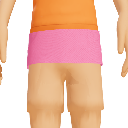
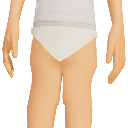
MiniMig 2: hvide trusser skåret på skrå, lårene i jævn form og samme farve som benet

diff --git a/bygogspil/index.html b/bygogspil/index.html
@@ -552,8 +552,9 @@ const PALETTES = { skin: ['#F6D0AE', '#EDB98A', '#D9965F', '#B5713F', '#8D5530',
   cloth: ['#E8384F', '#FF7A2F', '#FFC233', '#2FB872', '#13BFA6', '#3D8BFF', '#46699E', '#7A4DFF', '#FF6FB1', '#F4F1EA', '#3A3550'] };
 PALETTES.brows = PALETTES.hair;
 // (the nose, the mouth and Pynt have no colour of their own, as in the app: no sliders under them - nor the movements)
+var briefsOn = false; // (the briefs are always white: no colours under them)
 function showSwatches() { const move = /^(move|game)-/.test(partNow); if (!move) slidersFrom(picked[partNow] || START[partNow]);
-  const noColour = move || ['nose', 'mouth', 'pynt', 'name', 'ears', 'bg'].includes(partNow);
+  const noColour = move || ['nose', 'mouth', 'pynt', 'name', 'ears', 'bg'].includes(partNow) || partNow === 'pants' && briefsOn;
   document.getElementById('sliders').style.display = noColour ? 'none' : '';
   // (the fixed colours of the app over the sliders: skin, hair - the brows too - eyes, and the clothes' colours for the rest)
   const sw = document.getElementById('swatches'), list = noColour ? [] : PALETTES[partNow] || PALETTES.cloth; sw.hidden = !list.length; sw.innerHTML = '';
@@ -1294,7 +1295,7 @@ function redrawBody() {
     if (!c) { o[i] = s[i]; o[i + 1] = s[i + 1]; o[i + 2] = s[i + 2]; o[i + 3] = 255; continue; }
     const k = (.3 * s[i] + .59 * s[i + 1] + .11 * s[i + 2]) / tex.mid[tex.label[p]];
     o[i] = Math.min(255, c.r * 255 * k); o[i + 1] = Math.min(255, c.g * 255 * k); o[i + 2] = Math.min(255, c.b * 255 * k); o[i + 3] = 255; }
-  drawEyes(o); drawMouth(o); drawPynt(o); drawNose(o); drawBrows(o); tex.ctx.putImageData(out, 0, 0); tex.texture.needsUpdate = true; smoothUnder(); shapeNose(); mouthNormals(); bulgeLips(); }
+  matchThighs(o); drawEyes(o); drawMouth(o); drawPynt(o); drawNose(o); drawBrows(o); tex.ctx.putImageData(out, 0, 0); tex.texture.needsUpdate = true; smoothUnder(); thighLight(); shapeNose(); mouthNormals(); bulgeLips(); }
 // (the smile's crease lit smooth under a new mouth, as it was under the smile - after shapeNose, whose area reaches
 // down over the upper lip and put the crease's light back there)
 function mouthNormals() { const M = tex && tex.mouth, opts = (MOUTHS.find(m => m[0] === mouthNow) || [])[2]; if (!M || !M.verts || !hairBase) return;
@@ -1897,7 +1898,7 @@ const GARMENTS = {
     ['toej-haette', 'Hættetrøje', { made: true, sleeve: 1.06, length: .04, hood: true, pocket: true, cloth: 'smooth' }],
     ['toej-fodbold', 'Fodboldtrøje', { made: true, sleeve: .32, length: .01, tuck: true, trim: true, cloth: 'smooth' }]], texs: clothTexs },
   // (the folds lower than at first - the user - and the long trousers turned up a little too)
-  pants: { items: [['', 'Undershorts'], ['bukser-trusser', 'Trusser', { made: true, hem: .41, rise: .012, noBand: true }], ['bukser-lange', 'Lange bukser', { made: true, hem: .06, loose: .004, cuff: .014 }], ['bukser-shorts', 'Shorts', { made: true, hem: .3, cuff: .018 }],
+  pants: { items: [['', 'Undershorts'], ['bukser-trusser', 'Trusser', { made: true, hem: .41, brief: .07, rise: .012, noBand: true, white: true }], ['bukser-lange', 'Lange bukser', { made: true, hem: .06, loose: .004, cuff: .014 }], ['bukser-shorts', 'Shorts', { made: true, hem: .3, cuff: .018 }],
     ['bukser-cowboy', 'Cowboyshorts', { made: true, hem: .24, cuff: .02, cloth: 'denim' }], ['bukser-fodbold', 'Fodboldbukser', { made: true, hem: .295, loose: .004, loops: false, cloth: 'smooth' }]], texs: [], waist: true },
   dress: { items: [['', 'Ingen kjole'], ['kjole-sommer', 'Sommerkjole'], ['kjole-prinsesse', 'Prinsessekjole', { hang: .5, armsOut: 12 }], ['kjole-havfrue', 'Havfruekjole', { skirt: false, margin: .012, reach: 8, tail: true, snug: .2, waist: .15 }]], texs: [], skirt: true, noArms: true },
   // (socks made from the body too: low ones for sneakers, football socks with a stripe at the top, and knee socks)
@@ -1921,7 +1922,7 @@ async function setGarment(part, name) { const G = GARMENTS[part], ask = ++dressi
   if (name && part === 'dress') { if (!G.now) G.before = { shirt: GARMENTS.shirt.now, pants: GARMENTS.pants.now }; GARMENTS.shirt.now = GARMENTS.pants.now = ''; }
   if (!name && part === 'dress' && G.now && G.before) { GARMENTS.shirt.now = G.before.shirt; GARMENTS.pants.now = G.before.pants; }
   if (name && (part === 'shirt' || part === 'pants')) GARMENTS.dress.now = '';
-  G.now = name; renderStyles();
+  G.now = name; briefsOn = GARMENTS.pants.now === 'bukser-trusser'; if (part === 'pants') showSwatches(); else renderStyles();
   // (everything changed at once, when all of it is loaded - the underwear went skin coloured and the last dress stayed on
   // while a new one loaded; a choice made meanwhile wins)
   for (const [p, g] of Object.entries(GARMENTS)) if (g.now && !g.meshes[g.now]) { const n = g.now;
@@ -1939,7 +1940,59 @@ let underBriefs = null;
 function wearUnder() { const D = GARMENTS.dress, wide = !!D.shown && (D.items.find(i => i[0] === D.shown)?.[2]?.skirt ?? D.skirt);
   if (wide && !underBriefs) { const o = GARMENTS.pants.items.find(i => i[0] === 'bukser-trusser')[2]; underBriefs = makeCloth('bukser-trusser', 'pants', o);
     if (underBriefs) { underBriefs.material = new THREE.MeshStandardMaterial({ color: 0xF4F1EA, roughness: .85, side: THREE.DoubleSide }); underBriefs.name = 'under-dress'; } }
-  if (underBriefs) underBriefs.visible = wide; }
+  if (underBriefs) underBriefs.visible = wide; setSlim(wide || GARMENTS.pants.shown === 'bukser-trusser'); }
+// (the thighs in their own shape: the figure was made wearing its shorts, so down to their hem the thighs are that much
+// thicker, with a step at the hem - it shows only where nothing covers them: with the briefs, or looking up a wide skirt.
+// Then each thigh is drawn in to a smooth line from the top of the thigh to the leg as it is just under the hem - the
+// user, 04-11-2026 - and painted as that leg is. Fitted clothes keep the shape they were made on)
+const THIGH = { under: .02, bins: 36 };
+function slimThighs() { if (hairBase.slim) return hairBase.slim; const { pts, inv, H } = hairBase.whole, K = clothMarks(), geo = hairBase.body.geometry, P = geo.attributes.position, uv = geo.attributes.uv, bsi = geo.attributes.skinIndex, bsw = geo.attributes.skinWeight;
+  const armB = new Set(hairBase.body.skeleton.bones.flatMap((b, j) => /Arm|Hand/.test(b.name) ? [j] : [])), onArm = j => { let a = 0; for (let c = 0; c < 4; c++) if (armB.has(bsi.getComponent(j, c))) a += bsw.getComponent(j, c); return a > .2; };
+  const pixel = j => Math.min(tex.h - 1, Math.max(0, Math.floor((1 - uv.getY(j)) * tex.h))) * tex.w + Math.min(tex.w - 1, Math.max(0, Math.floor(uv.getX(j) * tex.w))), n = P.count, crotch = hairBase.hipY - .06 * H;
+  // (the hem: where the shorts' lowest corners are - the lowest twentieth left out, stray specks)
+  const ys = []; for (let j = 0; j < n; j++) if (tex.label[pixel(j)] === PARTS.pants && pts[j * 6 + 1] < crotch && !onArm(j)) ys.push(pts[j * 6 + 1]); ys.sort((a, b) => a - b); const hem = ys[Math.floor(ys.length * .05)], yRef = hem - THIGH.under * H;
+  const legs = { '-1': { x: 0, z: 0, c: 0, tx: 0, tz: 0, tc: 0, r: new Float32Array(THIGH.bins) }, 1: { x: 0, z: 0, c: 0, tx: 0, tz: 0, tc: 0, r: new Float32Array(THIGH.bins) } }, sideOf = x => x < K.mid ? -1 : 1;
+  for (let j = 0; j < n; j++) { const y = pts[j * 6 + 1]; if (onArm(j)) continue; const L = legs[sideOf(pts[j * 6])];
+    if (Math.abs(y - yRef) < .008 * H) { L.x += pts[j * 6]; L.z += pts[j * 6 + 2]; L.c++; } else if (y < crotch - .01 * H && y > crotch - .04 * H) { L.tx += pts[j * 6]; L.tz += pts[j * 6 + 2]; L.tc++; } }
+  for (const L of Object.values(legs)) { L.x /= L.c; L.z /= L.c; L.tx /= L.tc; L.tz /= L.tc; }
+  const binOf = (x, z, L) => Math.floor((Math.atan2(x, z) / (2 * Math.PI) + .5) * THIGH.bins) % THIGH.bins;
+  for (let j = 0; j < n; j++) { if (Math.abs(pts[j * 6 + 1] - yRef) >= .008 * H || onArm(j)) continue; const L = legs[sideOf(pts[j * 6])], dx = pts[j * 6] - L.x, dz = pts[j * 6 + 2] - L.z, b = binOf(dx, dz); L.r[b] = Math.max(L.r[b], Math.hypot(dx, dz)); }
+  // (and how far out the body comes at the top of the thigh, by the briefs' edge, all round: the thigh's outline runs in a
+  // straight smooth line from there down to the leg - held in to just under the crotch, the hips stood out over it in a
+  // sharp notch on the outside, seen from in front, the user said)
+  for (const L of Object.values(legs)) L.rt = new Float32Array(THIGH.bins);
+  for (let j = 0; j < n; j++) { const y = pts[j * 6 + 1]; if (y >= crotch || y <= crotch - .03 * H || onArm(j)) continue; const L = legs[sideOf(pts[j * 6])], dx = pts[j * 6] - L.tx, dz = pts[j * 6 + 2] - L.tz, b = binOf(dx, dz); L.rt[b] = Math.max(L.rt[b], Math.hypot(dx, dz)); }
+  const fill = r => { const s = r.map((v, b) => (v || Math.max(r[(b + 1) % r.length], r[(b + r.length - 1) % r.length]))); return s.map((_, b) => (s[(b + 1) % s.length] + s[b] * 2 + s[(b + s.length - 1) % s.length]) / 4); };
+  for (const L of Object.values(legs)) { L.r = fill(L.r); L.rt = fill(L.rt); }
+  const slim = P.array.slice(), w = new THREE.Vector3(), legPix = new Set(), thighPix = new Set();
+  for (let j = 0; j < n; j++) { const x = pts[j * 6], y = pts[j * 6 + 1], z = pts[j * 6 + 2]; if (onArm(j)) continue;
+    if (y < hem - .05 * H && y > hem - .09 * H && tex.label[pixel(j)] === PARTS.skin) legPix.add(pixel(j));
+    if (y <= yRef - .002 * H || y >= crotch) continue; if (tex.label[pixel(j)] === PARTS.pants || tex.seam[pixel(j)] === PARTS.pants) thighPix.add(pixel(j));
+    const L = legs[sideOf(x)], t = (y - yRef) / (crotch - yRef), cx = L.x + (L.tx - L.x) * t, cz = L.z + (L.tz - L.z) * t, dx = x - cx, dz = z - cz, now = Math.hypot(dx, dz); if (now < 1e-5) continue;
+    const a = (Math.atan2(dx, dz) / (2 * Math.PI) + .5) * THIGH.bins, b0 = Math.floor(a) % THIGH.bins, u = a - Math.floor(a), at = r => r[b0] * (1 - u) + r[(b0 + 1) % THIGH.bins] * u, R = at(L.r) + (at(L.rt) - at(L.r)) * t;
+    // (only ever in)
+    const to = Math.min(now, R); w.set(cx + dx / now * to, y, cz + dz / now * to).applyMatrix4(inv); slim[j * 3] = w.x; slim[j * 3 + 1] = w.y; slim[j * 3 + 2] = w.z; }
+  // (the shadow of the shorts painted on the leg under their hem, a dark ragged band: every little square of the picture
+  // from just above the hem to a little under it, drawn triangle by triangle - with how much of the leg's colour it
+  // gets, all at the hem, fading out downwards)
+  const band = new Map(), lo = hem - .05 * H, hi = crotch, cy = [0, 0, 0], cu = [0, 0, 0], cv = [0, 0, 0];
+  for (let t = 0; t + 2 < n; t += 3) { let inside = false; for (let c = 0; c < 3; c++) { const j = t + c; cy[c] = pts[j * 6 + 1]; cu[c] = uv.getX(j) * tex.w; cv[c] = (1 - uv.getY(j)) * tex.h; if (cy[c] > lo && cy[c] < hi) inside = true; } if (!inside || onArm(t)) continue;
+    const x0 = Math.floor(Math.min(...cu)), x1 = Math.ceil(Math.max(...cu)), y0 = Math.floor(Math.min(...cv)), y1 = Math.ceil(Math.max(...cv)), d = (cv[1] - cv[2]) * (cu[0] - cu[2]) + (cu[2] - cu[1]) * (cv[0] - cv[2]); if (!d || x1 - x0 > 60 || y1 - y0 > 60) continue;
+    for (let py = y0; py <= y1; py++) for (let px = x0; px <= x1; px++) { const a = ((cv[1] - cv[2]) * (px + .5 - cu[2]) + (cu[2] - cu[1]) * (py + .5 - cv[2])) / d, b = ((cv[2] - cv[0]) * (px + .5 - cu[2]) + (cu[0] - cu[2]) * (py + .5 - cv[2])) / d, e = 1 - a - b; if (a < -.25 || b < -.25 || e < -.25 || px < 0 || py < 0 || px >= tex.w || py >= tex.h) continue;
+      const k = Math.min(1, Math.max(0, ((a * cy[0] + b * cy[1] + e * cy[2]) - lo) / (.03 * H))), p = py * tex.w + px; band.set(p, Math.max(band.get(p) || 0, k * k * (3 - 2 * k))); } }
+  // (and the light: the way each point faces still came from the step at the hem, a dark ragged band across the leg - from
+  // just under it up to the crotch it faces straight out from the leg, fading into its own at both ends)
+  const N = geo.attributes.normal, turn = [], from = yRef - .05 * H, q = new THREE.Vector3(); for (let j = 0; j < n; j++) { const x = pts[j * 6], y = pts[j * 6 + 1], z = pts[j * 6 + 2]; if (y <= from || y >= crotch || onArm(j)) continue;
+    const L = legs[sideOf(x)], t = Math.max(0, (y - yRef) / (crotch - yRef)), dx = x - (L.x + (L.tx - L.x) * t), dz = z - (L.z + (L.tz - L.z) * t), l = Math.hypot(dx, dz); if (l < 1e-5) continue; q.set(dx / l, 0, dz / l).transformDirection(inv);
+    turn.push({ j, x: q.x, y: q.y, z: q.z, k: Math.min(1, (y - from) / (.03 * H), (crotch - y) / (.03 * H)), was: [N.getX(j), N.getY(j), N.getZ(j)] }); }
+  return hairBase.slim = { orig: P.array.slice(), slim, on: false, legPix: [...legPix], thighPix: [...thighPix], band, turn }; }
+function thighLight(off) { const S = hairBase?.slim; if (!S || !S.on && !off) return; const N = hairBase.body.geometry.attributes.normal, a = N.array;
+  for (const t of S.turn) { let x = t.was[0], y = t.was[1], z = t.was[2]; if (!off) { x += (t.x - x) * t.k; y += (t.y - y) * t.k; z += (t.z - z) * t.k; const l = Math.hypot(x, y, z) || 1; x /= l; y /= l; z /= l; } a[t.j * 3] = x; a[t.j * 3 + 1] = y; a[t.j * 3 + 2] = z; } N.needsUpdate = true; }
+function setSlim(on) { if (!hairBase || !tex || (!on && !hairBase.slim)) return; const S = slimThighs(); if (S.on === on) return; S.on = on; hairBase.body.geometry.attributes.position.array.set(on ? S.slim : S.orig); hairBase.body.geometry.attributes.position.needsUpdate = true; if (!on) thighLight(true); redrawBody(); }
+// (the thighs' paint made the same as the leg just under them, colour for colour)
+function matchThighs(o) { const S = hairBase?.slim; if (!S?.on || !tex.covered[PARTS.pants]) return; const mean = l => { const m = [0, 0, 0]; for (const p of l) for (let c = 0; c < 3; c++) m[c] += o[p * 4 + c]; return m.map(v => v / Math.max(1, l.length)); }, A = mean(S.legPix), B = mean(S.thighPix), f = A.map((v, c) => v / Math.max(1, B[c]));
+  for (let p = 0; p < tex.w * tex.h; p++) if (tex.label[p] === PARTS.pants || tex.seam[p] === PARTS.pants) for (let c = 0; c < 3; c++) o[p * 4 + c] = Math.min(255, o[p * 4 + c] * f[c]);
+  for (const [p, k] of S.band) for (let c = 0; c < 3; c++) o[p * 4 + c] += (A[c] - o[p * 4 + c]) * k; }
 // (a top over trousers: its lower part let out over them, wherever they come further out - drawn up by the navel the
 // trousers came out through the T-shirt's hem. Each time from the top's own shape, kept in orig)
 function layer() { const top = GARMENTS.shirt.meshes[GARMENTS.shirt.shown], under = GARMENTS.pants.meshes[GARMENTS.pants.shown]; if (!top) return;
@@ -2047,7 +2100,9 @@ function makeCloth(name, part, opts) {
   // in the contrast colour that far below the top, [from, to])
   if (socks) { const top = opts.top * H; edges = [{ f: p => p[1] - top, bare: .008 * H }]; out = () => (opts.out || .0035) * H; }
   else if (pants) { const hem = opts.hem * H;
-    edges = [{ f: p => hem - p[1], fold: (opts.cuff || 0) * H, bare: .012 * H }, { f: p => p[1] - top, bare: .003 * H }];
+    // (briefs: the leg openings on the slant, from the crotch up over the hips)
+    const hemAt = opts.brief ? p => crotch - .004 * H + clamp(side(p) / (.1 * H)) * opts.brief * H : () => hem;
+    edges = [{ f: p => hemAt(p) - p[1], fold: (opts.cuff || 0) * H, bare: .012 * H }, { f: p => p[1] - top, bare: .003 * H }];
     // (loose: the legs that much further out all the way down, from just under the crotch - long trousers sat like tights)
     out = p => { const s = clamp((crotch - p[1]) / (crotch - hem)); return (.006 + (opts.flare || 0) * s * s + (opts.loose || 0) * clamp((crotch - p[1]) / (.06 * H))) * H; }; }
   // (tucked: a top's bottom inside the trousers - as long as a T-shirt, so with underpants only no tummy shows)
@@ -2179,6 +2234,8 @@ function makeCloth(name, part, opts) {
   if (socks) { cloth.userData.sock = opts; paintSocks(cloth); if (opts.heel) { cloth.material.roughness = .28; cloth.material.metalness = .05; } }
   // (the body under it hidden, all but near its edges)
   const covered = new Uint8Array(pts.length / 6); for (let j = 0; j < covered.length; j++) covered[j] = !((pants || socks) && armPt[j]) && edges.every(e => e.f(P3(j)) < -e.bare) ? 1 : 0;
+  // (white: always white, like the vest and the undershorts - the briefs)
+  if (opts.white) cloth.material = new THREE.MeshStandardMaterial({ color: 0xF2EFE8, roughness: .85, metalness: 0, side: THREE.DoubleSide });
   cloth.userData.covered = covered; cloth.userData.made = true; cloth.userData.tucked = T; return cloth; }
 async function loadCloth(name, part) {
   const G = GARMENTS[part], file = G.items.find(it => it[0] === name)?.[2]?.file || name; // (file: made from another one's files)

diff --git a/precache-manifest.js b/precache-manifest.js
@@ -1,2 +1,2 @@
-self.MINIMIG_VERSION = '4113E50AD60021D7';
+self.MINIMIG_VERSION = '9CE542C737669201';
 self.MINIMIG_FILES = ["billeder/figur.png","billeder/ikon-180.png","billeder/ikon-192.png","billeder/ikon-512.png","billeder/spil-dans.jpg","billeder/spil-gemmeleg.jpg","billeder/spil-hav.jpg","billeder/spil-hop.jpg","billeder/spil-skate.jpg","billeder/spil-straffe.jpg","bygogspil/baggrund/dansesal.jpg","bygogspil/baggrund/fodboldbane.jpg","bygogspil/baggrund/gymnastiksal.jpg","bygogspil/baggrund/havbund.jpg","bygogspil/baggrund/have.jpg","bygogspil/baggrund/ridderborg.jpg","bygogspil/baggrund/rummet.jpg","bygogspil/baggrund/skov.jpg","bygogspil/baggrund/slikland.jpg","bygogspil/baggrund/slot.jpg","bygogspil/baggrund/strand.jpg","bygogspil/baggrund/vinter.jpg","bygogspil/figur.fbx","bygogspil/figur-farve.jpg","bygogspil/figur-staa.json","bygogspil/haar-kort.jpg","bygogspil/haar-kort.json","bygogspil/ikoner/baggrund.png","bygogspil/ikoner/briller.png","bygogspil/ikoner/bryn.png","bygogspil/ikoner/bukser.png","bygogspil/ikoner/hat.png","bygogspil/ikoner/hud.png","bygogspil/ikoner/haar.png","bygogspil/ikoner/kinder.png","bygogspil/ikoner/kjoler.png","bygogspil/ikoner/mund.png","bygogspil/ikoner/naese.png","bygogspil/ikoner/navn.png","bygogspil/ikoner/ny-dreng.jpg","bygogspil/ikoner/ny-pige.jpg","bygogspil/ikoner/oejne.png","bygogspil/ikoner/oerer.png","bygogspil/ikoner/sko.png","bygogspil/ikoner/spil-gemmeleg.png","bygogspil/ikoner/spil-hav.png","bygogspil/ikoner/spil-hop.png","bygogspil/ikoner/spil-hop-bag.png","bygogspil/ikoner/spil-hop-for.png","bygogspil/ikoner/spil-oe.png","bygogspil/ikoner/spil-skate.png","bygogspil/ikoner/spil-straffe.png","bygogspil/ikoner/stilling-dans.png","bygogspil/ikoner/stilling-drej.png","bygogspil/ikoner/stilling-hop.png","bygogspil/ikoner/stilling-jubel.png","bygogspil/ikoner/stilling-kolboette.png","bygogspil/ikoner/stilling-loeb.png","bygogspil/ikoner/stilling-mindans.png","bygogspil/ikoner/stilling-spark.png","bygogspil/ikoner/stilling-staa.png","bygogspil/ikoner/stilling-vink.png","bygogspil/ikoner/stroemper.png","bygogspil/ikoner/ting.png","bygogspil/ikoner/troeje.png","bygogspil/ikoner/valg-back.png","bygogspil/ikoner/valg-bg-dansesal.png","bygogspil/ikoner/valg-bg-fodboldbane.png","bygogspil/ikoner/valg-bg-gymnastiksal.png","bygogspil/ikoner/valg-bg-havbund.png","bygogspil/ikoner/valg-bg-have.png","bygogspil/ikoner/valg-bg-ridderborg.png","bygogspil/ikoner/valg-bg-rummet.png","bygogspil/ikoner/valg-bg-skov.png","bygogspil/ikoner/valg-bg-slikland.png","bygogspil/ikoner/valg-bg-slot.png","bygogspil/ikoner/valg-bg-sol.png","bygogspil/ikoner/valg-bg-strand.png","bygogspil/ikoner/valg-bg-vinter.png","bygogspil/ikoner/valg-briller-hjerte.png","bygogspil/ikoner/valg-briller-runde.png","bygogspil/ikoner/valg-briller-sol.png","bygogspil/ikoner/valg-briller-stjerne.png","bygogspil/ikoner/valg-bryn-hoeje.png","bygogspil/ikoner/valg-bryn-ingen.png","bygogspil/ikoner/valg-bryn-naturlige.png","bygogspil/ikoner/valg-bryn-sure.png","bygogspil/ikoner/valg-bryn-triste.png","bygogspil/ikoner/valg-bryn-tykke.png","bygogspil/ikoner/valg-bryn-tynde.png","bygogspil/ikoner/valg-bukser-cowboy.png","bygogspil/ikoner/valg-bukser-fodbold.png","bygogspil/ikoner/valg-bukser-lange.png","bygogspil/ikoner/valg-bukser-shorts.png","bygogspil/ikoner/valg-bukser-trusser.png","bygogspil/ikoner/valg-dans.png","bygogspil/ikoner/valg-dans-arme.png","bygogspil/ikoner/valg-dans-break.png","bygogspil/ikoner/valg-dans-fjollet.png","bygogspil/ikoner/valg-dans-flair.png","bygogspil/ikoner/valg-dans-flair2.png","bygogspil/ikoner/valg-dans-hiphop.png","bygogspil/ikoner/valg-fald.png","bygogspil/ikoner/valg-front.png","bygogspil/ikoner/valg-hat-kanin.png","bygogspil/ikoner/valg-hat-kasket.png","bygogspil/ikoner/valg-hat-krone.png","bygogspil/ikoner/valg-hat-sloejfe.png","bygogspil/ikoner/valg-hop.png","bygogspil/ikoner/valg-hop-hoejt.png","bygogspil/ikoner/valg-hop-lille.png","bygogspil/ikoner/valg-hop-over.png","bygogspil/ikoner/valg-haar-fletning.png","bygogspil/ikoner/valg-haar-fletninger.png","bygogspil/ikoner/valg-haar-kort.png","bygogspil/ikoner/valg-haar-kroeller.png","bygogspil/ikoner/valg-haar-strit.png","bygogspil/ikoner/valg-ingen-dress.png","bygogspil/ikoner/valg-ingen-glasses.png","bygogspil/ikoner/valg-ingen-hat.png","bygogspil/ikoner/valg-ingen-item.png","bygogspil/ikoner/valg-ingen-oerering.png","bygogspil/ikoner/valg-ingen-pants.png","bygogspil/ikoner/valg-ingen-shirt.png","bygogspil/ikoner/valg-ingen-shoe.png","bygogspil/ikoner/valg-ingen-socks.png","bygogspil/ikoner/valg-jubel.png","bygogspil/ikoner/valg-jubel-klap.png","bygogspil/ikoner/valg-jubel-yes.png","bygogspil/ikoner/valg-kjole-havfrue.png","bygogspil/ikoner/valg-kjole-prinsesse.png","bygogspil/ikoner/valg-kjole-sommer.png","bygogspil/ikoner/valg-kolboette.png","bygogspil/ikoner/valg-loeb.png","bygogspil/ikoner/valg-loeb-a.png","bygogspil/ikoner/valg-loeb-b.png","bygogspil/ikoner/valg-loebehop.png","bygogspil/ikoner/valg-mund-grin.png","bygogspil/ikoner/valg-mund-kys.png","bygogspil/ikoner/valg-mund-neutral.png","bygogspil/ikoner/valg-mund-o.png","bygogspil/ikoner/valg-mund-smil.png","bygogspil/ikoner/valg-mund-trist.png","bygogspil/ikoner/valg-mund-tunge.png","bygogspil/ikoner/valg-naese-bred.png","bygogspil/ikoner/valg-naese-dyr.png","bygogspil/ikoner/valg-naese-klovn.png","bygogspil/ikoner/valg-naese-lang.png","bygogspil/ikoner/valg-naese-lille.png","bygogspil/ikoner/valg-naese-naturlig.png","bygogspil/ikoner/valg-niveau-let.png","bygogspil/ikoner/valg-niveau-meget-let.png","bygogspil/ikoner/valg-niveau-meget-svaer.png","bygogspil/ikoner/valg-niveau-mellem.png","bygogspil/ikoner/valg-niveau-svaer.png","bygogspil/ikoner/valg-oejne-blink.png","bygogspil/ikoner/valg-oejne-glad.png","bygogspil/ikoner/valg-oejne-hjerte.png","bygogspil/ikoner/valg-oejne-naturlige.png","bygogspil/ikoner/valg-oejne-stjerne.png","bygogspil/ikoner/valg-oejne-store.png","bygogspil/ikoner/valg-oejne-vipper.png","bygogspil/ikoner/valg-oerer-alfe.png","bygogspil/ikoner/valg-oerering-hjerter.png","bygogspil/ikoner/valg-oerering-perler.png","bygogspil/ikoner/valg-oerering-ringe.png","bygogspil/ikoner/valg-oerering-stjerner.png","bygogspil/ikoner/valg-oerer-naturlig.png","bygogspil/ikoner/valg-oerer-smaa.png","bygogspil/ikoner/valg-oerer-store.png","bygogspil/ikoner/valg-oerer-udstaaende.png","bygogspil/ikoner/valg-pynt-fregner.png","bygogspil/ikoner/valg-pynt-glimmer.png","bygogspil/ikoner/valg-pynt-hjerter.png","bygogspil/ikoner/valg-pynt-ingen.png","bygogspil/ikoner/valg-pynt-plaster.png","bygogspil/ikoner/valg-pynt-plet.png","bygogspil/ikoner/valg-pynt-regnbue.png","bygogspil/ikoner/valg-pynt-roede.png","bygogspil/ikoner/valg-pynt-stjerne.png","bygogspil/ikoner/valg-side.png","bygogspil/ikoner/valg-sko-ballet.png","bygogspil/ikoner/valg-sko-fodbold.png","bygogspil/ikoner/valg-sko-gummi.png","bygogspil/ikoner/valg-sko-hoej.png","bygogspil/ikoner/valg-sko-sneakers.png","bygogspil/ikoner/valg-snubl.png","bygogspil/ikoner/valg-spark.png","bygogspil/ikoner/valg-spark-hoejre.png","bygogspil/ikoner/valg-stroemper-ankel.png","bygogspil/ikoner/valg-stroemper-fodbold.png","bygogspil/ikoner/valg-stroemper-hoeje.png","bygogspil/ikoner/valg-staa.png","bygogspil/ikoner/valg-ting-ballon.png","bygogspil/ikoner/valg-ting-bamse.png","bygogspil/ikoner/valg-ting-blomst.png","bygogspil/ikoner/valg-ting-bold.png","bygogspil/ikoner/valg-ting-fodbold.png","bygogspil/ikoner/valg-ting-hulahop.png","bygogspil/ikoner/valg-ting-is.png","bygogspil/ikoner/valg-ting-paraply.png","bygogspil/ikoner/valg-ting-tryllestav.png","bygogspil/ikoner/valg-toej-fodbold.png","bygogspil/ikoner/valg-toej-haette.png","bygogspil/ikoner/valg-toej-tshirt.png","bygogspil/ikoner/valg-vink.png","bygogspil/index.html","bygogspil/three/build/three.module.min.js","bygogspil/three/examples/jsm/controls/OrbitControls.js","bygogspil/three/examples/jsm/curves/NURBSCurve.js","bygogspil/three/examples/jsm/curves/NURBSUtils.js","bygogspil/three/examples/jsm/libs/fflate.module.js","bygogspil/three/examples/jsm/loaders/FBXLoader.js","bygogspil/three/LICENSE","index.html","manifest.webmanifest","privatliv/index.html","pwa.css","pwa.js","style.css","support/index.html","til-foraeldre/index.html"];
